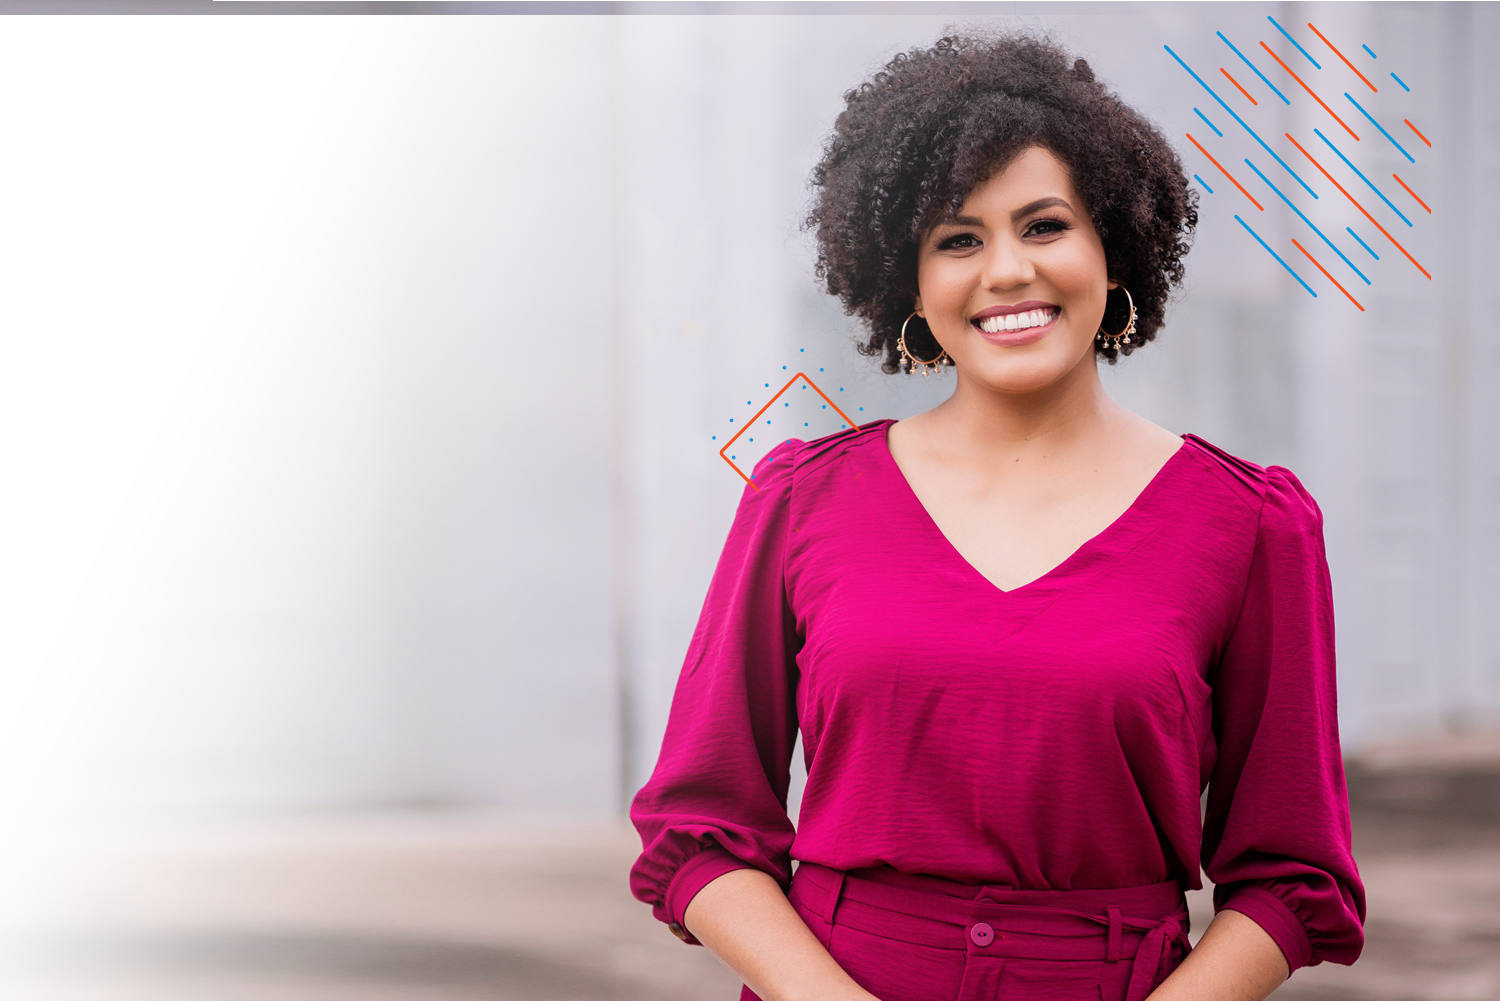
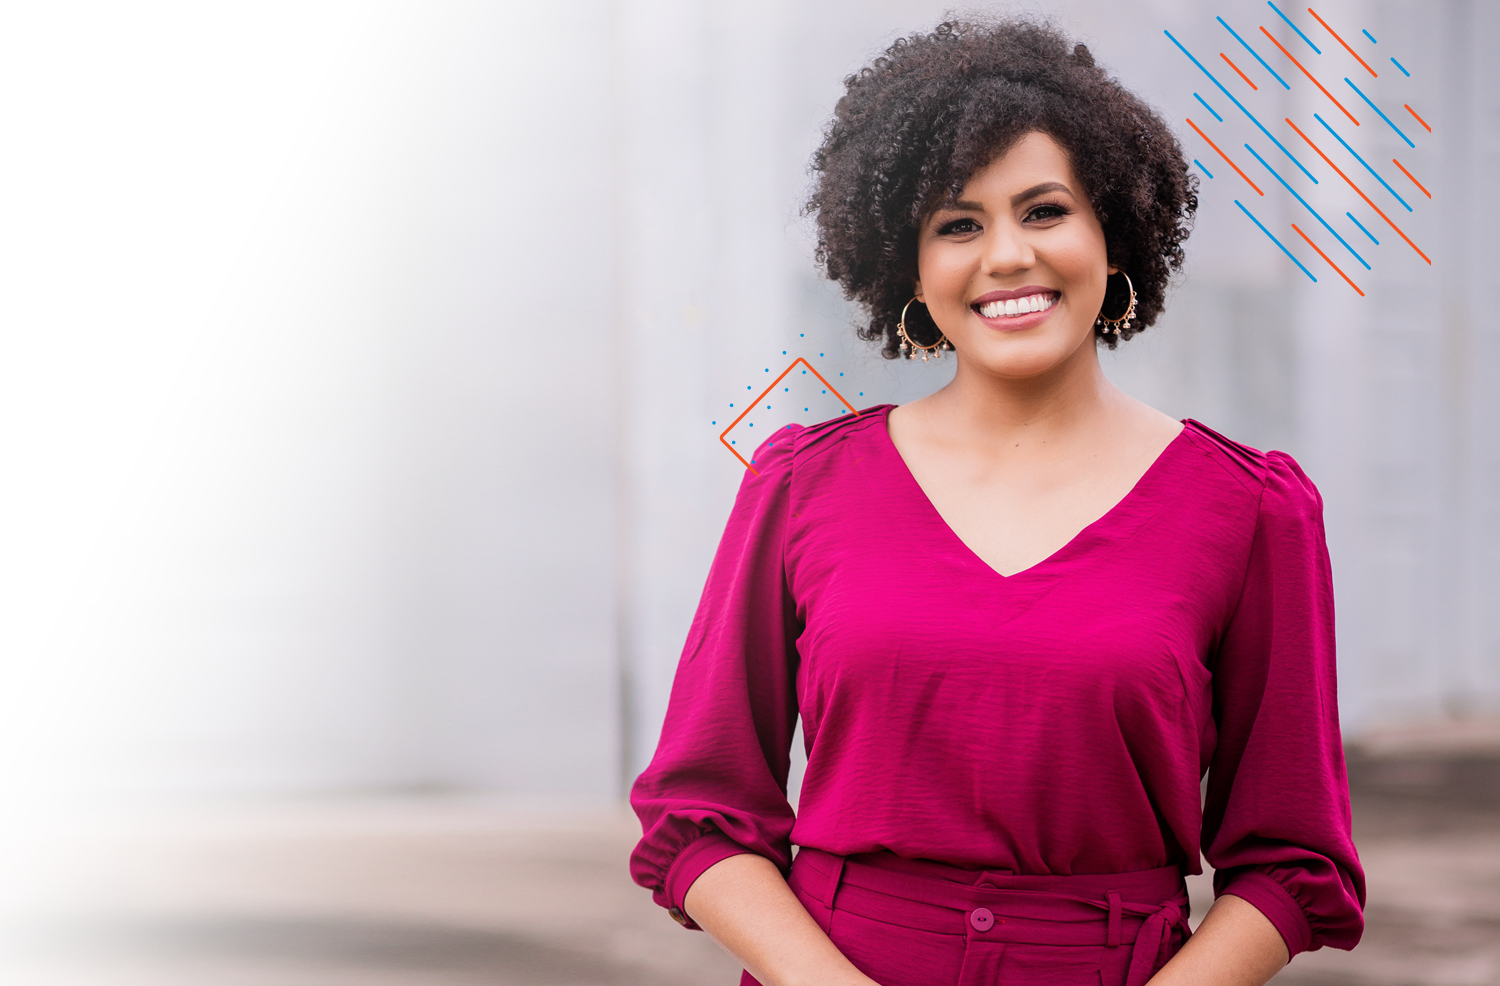
hero container ok

diff --git a/src/components/Hero/index.js b/src/components/Hero/index.js
@@ -1,22 +1,26 @@
 import React from "react";
-import './styles.css';
+import "./styles.css";
+import OrangeBox from "../common/OrangeBox";
 
 const Hero = () => (
-  <section className="hero-container text-align-left">
-    <div className="container">
-      <div className="col-4">
-      <h2>Dinheiro parado no FGTS?</h2>
-      <h3>
-        Receba antecipadamente
-        até 5 anos do seu 
-        Saque-Aniversário FGTS. 
-
-        O dinheiro é liberado em 
-        poucas horas e está disponível 
-        também para negativados.
-        É simples, rápido e digital. 
-      </h3>
+  <section className="hero-container d-flex">
+    <div className="container d-flex flex-column justify-content-center">
+      
+      <div className="col-5 text-start pt-2 d-flex flex-column h-75 justify-content-between">
+        <h2 className="title">Dinheiro parado no FGTS?</h2>
+        <h3>
+          <strong>
+            Receba antecipadamente até 5 anos do seu Saque-Aniversário FGTS.
+          </strong>
+        </h3>
+        <h4>
+          O dinheiro é liberado em poucas horas e está disponível também para
+          negativados.
+        </h4>
+        <h4 className="">É simples, rápido e digital.</h4>
+        <OrangeBox />
       </div>
+      
     </div>
   </section>
 );

diff --git a/src/components/Hero/styles.css b/src/components/Hero/styles.css
@@ -1,16 +1,21 @@
 .hero-container {
-  padding-top: 100px;
-  text-align:center;
+  margin-top: 100px;
+  min-height: 716px;
+  text-align: center;
+  background: url("./background.png");
+  background-repeat: no-repeat;
+  background-size: cover;
+  background-position: top center;
 }
 
-.hero-container h2 {
-  font-size: 60px;
+.hero-container .title {
+  font-size: 48px;
   color: #2e3266;
   font-weight: 700;
 }
 
 .hero-container h3 {
-  font-size: 42px;
+  font-size: 32px;
   color: #4e4f50;
   font-weight: 700;
 }

diff --git a/src/components/Header/index.js b/src/components/Header/index.js
@@ -13,7 +13,7 @@ const Header = () => (
             <img src={finazulLogo} alt="logo Finazul"></img>
           </a>
         </div>
-        <div className="d-flex align-items-center col-5 justify-content-around">
+        <div className="d-flex align-items-center col-4 justify-content-between">
           <OrangeBox url="http://www.finazul.com.br" />
           <a href="./">
             <img

diff --git a/src/components/common/OrangeBox.js b/src/components/common/OrangeBox.js
@@ -2,8 +2,8 @@ import React from "react";
 import './styles.css';
 
 const OrangeBox = ({ url }) => (
-  <a href={url} className="orange-box text-decoration-none p-3">
-    <h2 className="mb-0">Quero antecipar já &#x2192; </h2>
+  <a href={url}>
+    <h2 className="mb-0 orange-box text-center text-decoration-none p-3">Quero antecipar já &#x2192; </h2>
   </a>
   );
 

diff --git a/src/components/common/styles.css b/src/components/common/styles.css
@@ -1,9 +1,7 @@
-.orange-box,
-.orange-box:hover {
-  border-radius: 20px;
+.orange-box {
   background-color: #f4511e;
-}
-.orange-box h2 {
+  border-radius: 20px;
+  max-width: 472px;
   font-size: 28px;
   color: #ffffff;
   font-weight: 600;
